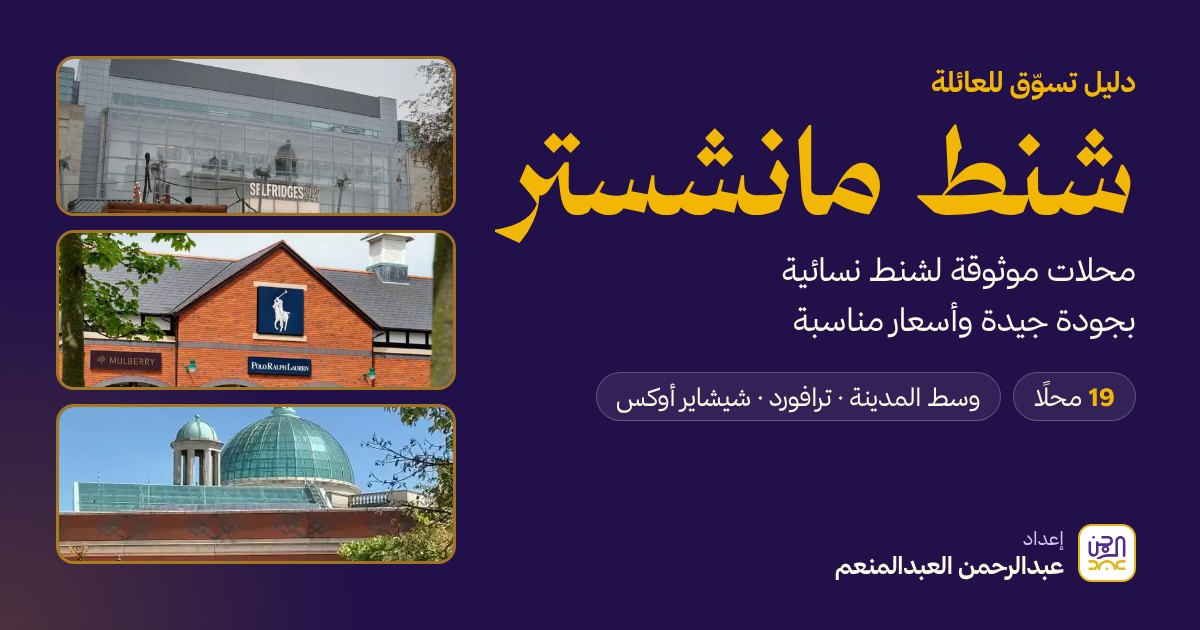
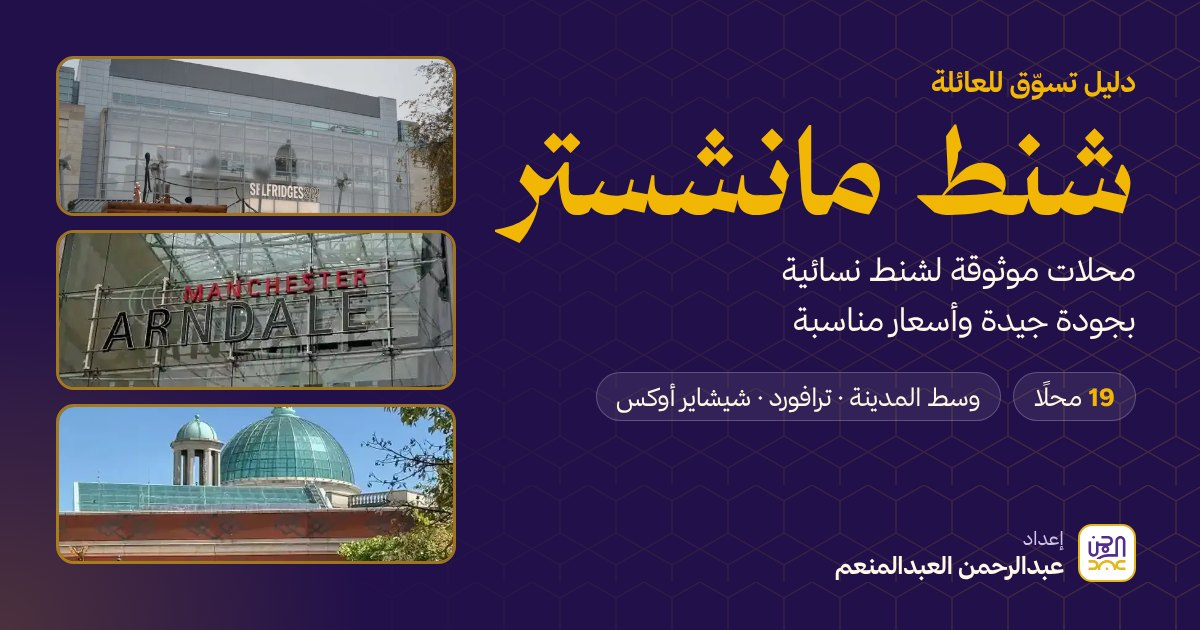
Bags page: preview image with hex pattern; images per guide rules (drop non-free Cheshire Oaks photo and off-target TK Maxx/MK street photos for brand tiles, blur figures behind Selfridges glass)
Claude-Session: https://claude.ai/code/session_01QH7mzZJjC2cRmrbhNPuopA

Changed region(s): [[0.0308, 0.3619, 0.4008, 0.6333]]

diff --git a/bags/index.html b/bags/index.html
@@ -10,8 +10,8 @@
 <meta property="og:description" content="محلات موثوقة لشنط نسائية بجودة جيدة وأسعار مناسبة، في وسط مانشستر وترافورد سنتر ومنافذ شيشاير أوكس.">
 <meta property="og:type" content="website">
 <meta property="og:url" content="https://alabdmn3m.github.io/manchester/bags/">
-<meta property="og:image" content="https://alabdmn3m.github.io/manchester/bags/og.jpg?v=4">
-<meta property="og:image:secure_url" content="https://alabdmn3m.github.io/manchester/bags/og.jpg?v=4">
+<meta property="og:image" content="https://alabdmn3m.github.io/manchester/bags/og.jpg?v=5">
+<meta property="og:image:secure_url" content="https://alabdmn3m.github.io/manchester/bags/og.jpg?v=5">
 <meta property="og:image:type" content="image/jpeg">
 <meta property="og:image:width" content="1200">
 <meta property="og:image:height" content="630">
@@ -504,11 +504,8 @@ footer{background:var(--hero);color:var(--hero-ink);padding-block:26px}
   const IMG = {
     selfridges: { f: 'e902248eed96', c: 'سيلفريدجز في Exchange Square', a: 'N Chadwick', l: 'CC BY-SA 2.0', u: 'https://commons.wikimedia.org/wiki/File:Selfridges,_Exchange_Square_-_geograph.org.uk_-_5684368.jpg', p: '57% 50%' },
     arndale: { f: '9b9194051835', c: 'مدخل مول أرنديل', a: 'Mike Peel', l: 'CC BY-SA 4.0', u: 'https://commons.wikimedia.org/wiki/File:Manchester_Arndale_Centre.jpg', p: '58% 50%' },
-    market: { f: '8a04f5139f53', c: 'شارع Market (مبنى برايمارك)؛ تي كي ماكس على بعد خطوات في رقم 51–55', a: 'WythenshaweMike', l: 'CC BY 3.0', u: 'https://commons.wikimedia.org/wiki/File:Primark_on_Market_Street,_Manchester_-_panoramio.jpg', p: '50% 30%' },
-    ncs: { f: 'ncs', c: 'شارع New Cathedral، والمحل في الشارع نفسه', a: 'Stephen McKay', l: 'CC BY-SA 2.0', u: 'https://www.geograph.org.uk/photo/7281518', p: '50% 40%' },
     tdome: { f: 'e5035483f560', c: 'قبة ترافورد سنتر', a: 'No more horses', l: 'CC BY 4.0', u: 'https://commons.wikimedia.org/wiki/File:Trafford_Centre_Dome.jpg', p: '50% 35%' },
     tpath: { f: 'a8a27d8166d3', c: 'ترافورد سنتر من ممر المشاة', a: 'N Chadwick', l: 'CC BY-SA 2.0', u: 'https://commons.wikimedia.org/wiki/File:The_Trafford_Centre_-_geograph.org.uk_-_7281857.jpg', p: '50% 50%' },
-    oaks: { f: '3dad8a0ce8b9', c: 'واجهات المحلات في شيشاير أوكس', a: 'Carden Park', l: '© أصحابها', u: 'https://www.cardenpark.co.uk/', p: '50% 40%' }
   };
   const S = [
     { id: 'longchamp', shop: 'https://www.longchamp.com/gb/en/le-pliage/', bn: 'لونشان', deep: 1, branch: 'https://www.longchamp.com/gb/en/shops/gb057', bsrc: 'موقع لونشان', loc: 'سيلفريدجز Exchange Square · دور الإكسسوارات', cmap: '', ll: [53.4838221,-2.2438271], hrs: [[660,1050],[600,1200],[600,1200],[600,1200],[600,1200],[600,1200],[600,1200]], short: 'من £85 إلى £145', ar: 'لونشان (داخل سيلفريدجز)', en: 'Longchamp · Selfridges Exchange Square', area: 'city', fit: 'in', ord: 1, img: 'selfridges',
@@ -517,7 +514,7 @@ footer{background:var(--hero);color:var(--hero-ink);padding-block:26px}
       pos: ['زوار شكروا موظفين ساعدوهم في اختيار الشنط وشرحوا الفروق بصبر.', 'المبنى مرتب ويحمل طابع سيلفريدجز.'], neg: ['أصغر من فرع سيلفريدجز في ترافورد، فالمعروض أقل.'],
       tip: 'الأنسب للاستعمال اليومي والسفر: نايلون خفيف يُطوى بأطراف جلدية. ليست شنطة سهرة فاخرة، لكنها تعيش سنوات.',
       hours: 'ركن لونشان: الإثنين إلى السبت 10:00–20:00، والأحد 11:00–17:30', go: 'نحو 30 دقيقة مشيًا من الفندق، أو أوبر نحو 10 دقائق', addr: '1 Exchange Square', place: 'ChIJXad2ucaxe0gR2jB5fWgpmKU', site: 'https://www.longchamp.com/gb/en/le-pliage/' },
-    { id: 'tkmaxx', shop: 'https://www.tkmaxx.com/uk/en/women/accessories/new-in-accessories/c/01040100', bn: 'تي كي ماكس', deep: 0, branch: '', bsrc: '', loc: 'محل مستقل في شارع Market', cmap: '', ll: [53.4826894,-2.2406667], hrs: [[720,1080],[480,1260],[480,1260],[480,1260],[480,1260],[480,1260],[480,1200]], short: 'ماركات بخصم يصل إلى 60%', ar: 'تي كي ماكس', en: 'TK Maxx · Market Street', area: 'city', fit: 'in', ord: 2, img: 'market',
+    { id: 'tkmaxx', tile: 'TK Maxx', tsub: 'محل مستقل · شارع Market', shop: 'https://www.tkmaxx.com/uk/en/women/accessories/new-in-accessories/c/01040100', bn: 'تي كي ماكس', deep: 0, branch: '', bsrc: '', loc: 'محل مستقل في شارع Market', cmap: '', ll: [53.4826894,-2.2406667], hrs: [[720,1080],[480,1260],[480,1260],[480,1260],[480,1260],[480,1260],[480,1200]], short: 'ماركات بخصم يصل إلى 60%', ar: 'تي كي ماكس', en: 'TK Maxx · Market Street', area: 'city', fit: 'in', ord: 2, img: 'market',
       rate: [4.3, 3589],
       price: 'ماركات عالمية بأسعار تقول الشركة إنها <b>أقل حتى <span class="num">60%</span></b> من السعر الأصلي. المعروض يتغير يوميًا، وأغلب الشنط تحت <span class="num">£100</span> (تقدير).', psrc: 'موقع تي كي ماكس (نسبة الخصم)', pv: 'الخصم مؤكد، والمعروض تقدير',
       pos: ['كثيرون يجدون فيه ماركات معروفة بسعر رخيص.', 'من أكبر فروعه في بريطانيا، وطاقمه ودود.'], neg: ['طابور الدفع يطول أحيانًا.', 'مزدحم، والبضاعة على الرفوف غير مرتبة دائمًا.'],
@@ -595,7 +592,7 @@ footer{background:var(--hero);color:var(--hero-ink);padding-block:26px}
       pos: ['ماركات كثيرة وطاقم ودود ومحترف.'], neg: ['أغلب المعروض ماركات فاخرة غالية.'],
       tip: 'يناسب من يريد رؤية ماركات كثيرة في مكان واحد ومقارنتها، ثم الشراء من الأنسب سعرًا.',
       hours: 'الإثنين إلى الجمعة 10:00–22:00، والسبت 10:00–21:00، والأحد 11:30–18:00', go: 'أوبر نحو 20 دقيقة من الفندق، أو الترام إلى محطة The Trafford Centre', addr: '60 The Trafford Centre', place: 'ChIJb7hcBYiue0gRjUbi7UUrEmg', site: 'https://www.selfridges.com/GB/en/' },
-    { id: 'mkc', shop: 'https://www.michaelkors.co.uk/women/handbags/', bn: 'مايكل كورس', deep: 1, branch: 'https://locations.michaelkors.co.uk/manchester/5-new-cathedral-street.html', bsrc: 'موقع مايكل كورس', loc: 'محل مستقل في New Cathedral Street', cmap: '', ll: [53.4839375,-2.245084], hrs: [[660,1020],[600,1080],[600,1080],[600,1080],[600,1080],[600,1080],[600,1080]], short: 'من £230، وأوفر في التخفيضات', ar: 'مايكل كورس (وسط المدينة)', en: 'Michael Kors · New Cathedral Street', area: 'city', fit: 'over', ord: 15, img: 'ncs',
+    { id: 'mkc', tile: 'Michael Kors', tsub: 'محل مستقل · شارع New Cathedral', shop: 'https://www.michaelkors.co.uk/women/handbags/', bn: 'مايكل كورس', deep: 1, branch: 'https://locations.michaelkors.co.uk/manchester/5-new-cathedral-street.html', bsrc: 'موقع مايكل كورس', loc: 'محل مستقل في New Cathedral Street', cmap: '', ll: [53.4839375,-2.245084], hrs: [[660,1020],[600,1080],[600,1080],[600,1080],[600,1080],[600,1080],[600,1080]], short: 'من £230، وأوفر في التخفيضات', ar: 'مايكل كورس (وسط المدينة)', en: 'Michael Kors · New Cathedral Street', area: 'city', fit: 'over', ord: 15, img: 'ncs',
       rate: [4.4, 55],
       price: 'أرخص شنطة في الموقع الرسمي اليوم <span class="num">£230</span> (نحو <span class="num">1143</span> ريال)، وتنخفض في التخفيضات.', psrc: 'موقع مايكل كورس الرسمي', pv: 'مؤكد',
       pos: ['طاقم مرحِّب لا يُشعر الزائر بالحرج.', 'المديرة بحثت عن شنطة في فرع آخر وأمّنتها.'], neg: ['زائر شكّ في «خصم 15%» عرضته موظفة.'],
@@ -717,7 +714,7 @@ footer{background:var(--hero);color:var(--hero-ink);padding-block:26px}
       const tot = xs.slice(1).reduce((a, x, i) => a + walk(xs[i], x), 0);
       const url = `https://www.google.com/maps/dir/?api=1&origin=${xs[0].ll.join(',')}&origin_place_id=${xs[0].place}&destination=${xs.at(-1).ll.join(',')}&destination_place_id=${xs.at(-1).place}&waypoints=${xs.slice(1, -1).map(x => x.ll.join(',')).join('|')}&waypoint_place_ids=${xs.slice(1, -1).map(x => x.place).join('|')}&travelmode=${t.mode}`;
       const im = IMG[t.img];
-      return `<div class="box tour"><div class="tph"><img src="img/${im.f}.webp" alt="${esc(im.c)}" loading="lazy" style="object-position:${im.p}"><div class="cap">${esc(im.c)} · <a href="${im.u}" target="_blank" rel="noopener">${esc(im.a)}</a> · ${esc(im.l)}</div></div><h3>${t.h}</h3><p class="sub">${t.sub} المشي ${xs.length === 2 ? 'بينهما' : 'بينها'} نحو <span class="num">${tot}</span> ${tot >= 3 && tot <= 10 ? 'دقائق' : 'دقيقة'}.</p><a class="btn primary" href="${url}" target="_blank" rel="noopener">${ico('i-route')}افتح المسار كاملًا في الخرائط</a><details><summary>اعرض المحطات (${xs.length})</summary><ol class="stops">${xs.map((x, i) => `<li><span class="n num">${i + 1}</span><div><button class="lnk" data-go="${x.id}">${esc(x.ar)}</button><small>${numify(esc(t.notes[x.id] || x.short))}</small></div></li>${i < xs.length - 1 ? `<li><span></span><div class="leg">${ico('i-walk')}${mt(walk(x, xs[i + 1]))} مشيًا</div></li>` : ''}`).join('')}</ol></details></div>`;
+      return `<div class="box tour">${im ? `<div class="tph"><img src="img/${im.f}.webp" alt="${esc(im.c)}" loading="lazy" style="object-position:${im.p}"><div class="cap">${esc(im.c)} · <a href="${im.u}" target="_blank" rel="noopener">${esc(im.a)}</a> · ${esc(im.l)}</div></div>` : `<div class="tph ph tile" role="img" aria-label="${t.h}"><b dir="ltr">Cheshire Oaks</b><small>منافذ · نحو ساعة بالسيارة</small></div>`}<h3>${t.h}</h3><p class="sub">${t.sub} المشي ${xs.length === 2 ? 'بينهما' : 'بينها'} نحو <span class="num">${tot}</span> ${tot >= 3 && tot <= 10 ? 'دقائق' : 'دقيقة'}.</p><a class="btn primary" href="${url}" target="_blank" rel="noopener">${ico('i-route')}افتح المسار كاملًا في الخرائط</a><details><summary>اعرض المحطات (${xs.length})</summary><ol class="stops">${xs.map((x, i) => `<li><span class="n num">${i + 1}</span><div><button class="lnk" data-go="${x.id}">${esc(x.ar)}</button><small>${numify(esc(t.notes[x.id] || x.short))}</small></div></li>${i < xs.length - 1 ? `<li><span></span><div class="leg">${ico('i-walk')}${mt(walk(x, xs[i + 1]))} مشيًا</div></li>` : ''}`).join('')}</ol></details></div>`;
     }).join(''));
     document.querySelectorAll('#tours [data-go]').forEach(b => b.onclick = () => openShop(b.dataset.go));
   }

diff --git a/bags/sw.js b/bags/sw.js
@@ -1,6 +1,6 @@
 // يحفظ صفحة الشنط على الجهاز لتعمل داخل المولات إن ضعفت الشبكة
-const C = 'bags-v15';
-const FILES = ['./', './index.html', './og.jpg', './img/e902248eed96.webp', './img/9b9194051835.webp', './img/8a04f5139f53.webp', './img/ncs.webp', './img/e5035483f560.webp', './img/a8a27d8166d3.webp', './img/3dad8a0ce8b9.webp'];
+const C = 'bags-v16';
+const FILES = ['./', './index.html', './og.jpg', './img/e902248eed96.webp', './img/9b9194051835.webp', './img/e5035483f560.webp', './img/a8a27d8166d3.webp'];
 self.addEventListener('install', e => { self.skipWaiting(); e.waitUntil(caches.open(C).then(c => c.addAll(FILES))); });
 self.addEventListener('activate', e => e.waitUntil(caches.keys().then(ks => Promise.all(ks.filter(k => k.startsWith('bags-') && k !== C).map(k => caches.delete(k)))).then(() => self.clients.claim())));
 self.addEventListener('fetch', e => {
